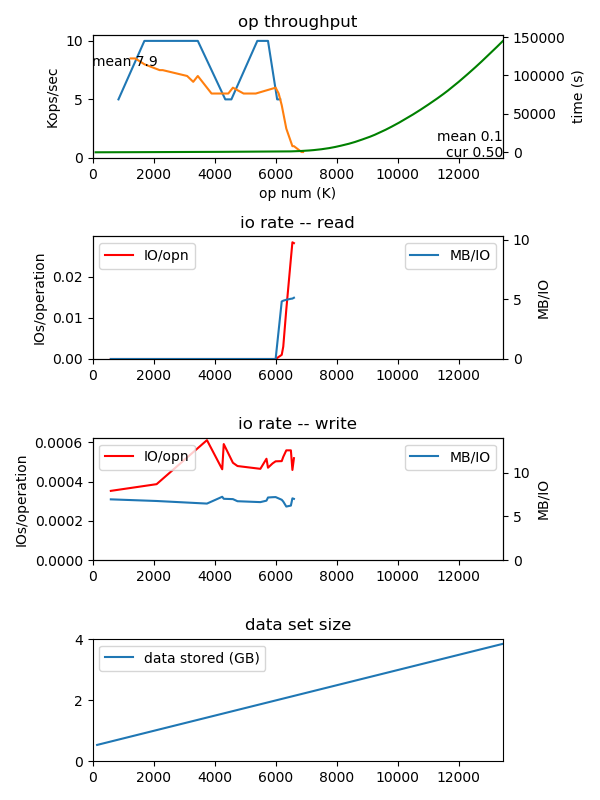
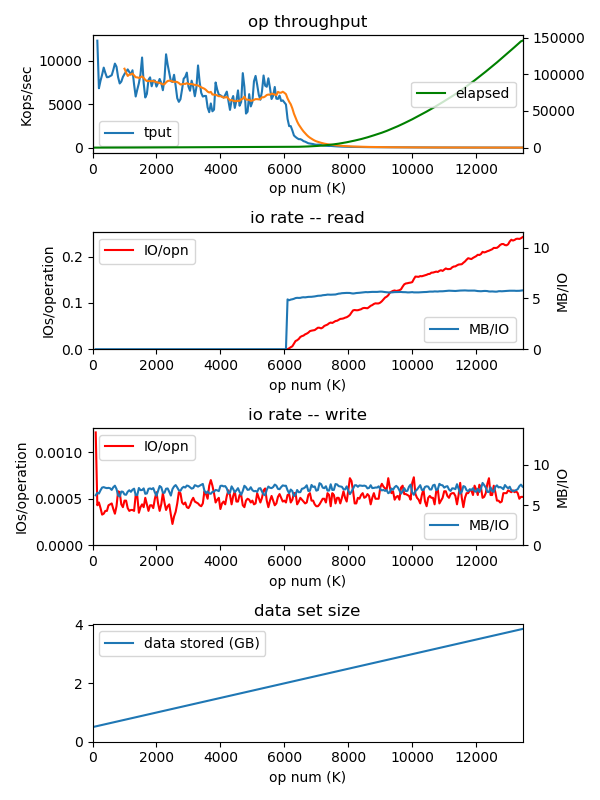
rejigger plot framework to make opn first-class independent variable

diff --git a/tools/plot/parser.py b/tools/plot/parser.py
@@ -32,31 +32,64 @@ def match_arow_line(token, line):
     label = line[len(token)+1+arow_width+1:]
     return (arow, label)
 
+class Trace:
+    def __init__(self, label, units):
+        self.label = label
+        self.units = units
+        self.data = {}
+        self._sortedKeys = None
+
+    def sortedKeys(self):
+        if not self._sortedKeys:
+            self._sortedKeys = list(self.data.keys())
+            self._sortedKeys.sort()
+        return self._sortedKeys
+
+    def __getitem__(self, op):
+        if op in self.data:
+            return self.data[op]
+        else:
+            idx = bisect.bisect(self.sortedKeys(), op)
+            if idx == 0:
+                return self.data[self.sortedKeys()[0]]
+            left_op = self.sortedKeys()[idx - 1]
+            right_op = self.sortedKeys()[idx]
+            frac = (op - left_op) / float(right_op - left_op)
+            left_v = self.data[left_op]
+            right_v = self.data[right_op]
+            return left_v + frac*(right_v - left_v)
+
+    def __setitem__(self, op, val):
+        self.data[op] = val
+
 class Experiment:
     def __init__(self, filename):
         self.filename = filename
 
-        self.os_map_total = {}
-        self.os_map_heap = {}
+        self.elapsed = Trace("elapsed", "s")
+
+        self.operation = Trace("operation", "op")
+        self.os_map_total = Trace("os_map_total", "B")
+        self.os_map_heap = Trace("os_map_heap", "B")
     #    allocations = {"small": {} , "large": {}, "total": {}}
         self.microscopes = {}
         self.first_op_completed_t = None
-        self.ops_completed = {}
+        self.ops_completed = Trace("ops_completed", "op")
         # these io counts are an older format that only worked in veribetrfs
         self.reads_started = {}
         self.reads_completed = {}
         self.writes_started = {}
         self.writes_completed = {}
         # these io counts are a newer format that works in rocks too
-        self.read_count = {}
-        self.read_bytes = {}
-        self.write_count = {}
-        self.write_bytes = {}
+        self.read_count = Trace("read_count", "iop")
+        self.read_bytes = Trace("read_bytes", "B")
+        self.write_count = Trace("write_count", "iop")
+        self.write_bytes = Trace("write_bytes", "B")
 
-        self.utime = {}
-        self.stime = {}
-        self.vsize = {}
-        self.rss = {}
+        self.utime = Trace("utime", "s")
+        self.stime = Trace("stime", "s")
+        self.vsize = Trace("vsize", "B")
+        self.rss = Trace("rss", "B")
 
         self.scopes = {}
         self.kvl_underlying = {}
@@ -64,72 +97,75 @@ class Experiment:
         self.accum = {}
 
         self.parse()
+        self.sortedOpns = list(self.operation.data.keys())
+        self.sortedOpns.sort()
+        self.op_max = max(self.sortedOpns)
     
     def parse(self):
         print("Parsing %s" % self.filename)
-        t = 0
+        cur_op = 0
         line_num = 0
         for line in open(self.filename, "r").readlines():
             line_num += 1
             line = line.strip()
             fields = line.split()
 
-            if line.startswith("elapsed"):
-                t = int(int(fields[1])/1000)  # ms to sec
-
+            # op count is the independent variable for all traces.
             if line.startswith("veribetrkv [op] sync") or line.startswith("rocksdb [op] sync"):
-                if self.first_op_completed_t == None:
-                    self.first_op_completed_t = t - 2
-                self.ops_completed[t] = int(fields[4])
-                #t += 1
+                cur_op = int(fields[4])
+                self.operation[cur_op] = cur_op
+
+            if line.startswith("elapsed"):
+                t = int(fields[1])/1000.0
+                self.elapsed[cur_op] = t
 
             if line.startswith("os-map-total"):
-                self.os_map_total[t] = int(fields[1])
-                self.os_map_heap[t] = int(fields[3])
+                self.os_map_total[cur_op] = int(fields[1])
+                self.os_map_heap[cur_op] = int(fields[3])
 
-            if line.startswith("iostats "):
-                self.reads_started[t] = int(fields[1])
-                self.reads_completed[t] = int(fields[3])
-                self.writes_started[t] = int(fields[5])
-                self.writes_completed[t] = int(fields[7])
+#            if line.startswith("iostats "):
+#                self.reads_started[cur_op] = int(fields[1])
+#                self.reads_completed[cur_op] = int(fields[3])
+#                self.writes_started[cur_op] = int(fields[5])
+#                self.writes_completed[cur_op] = int(fields[7])
 
             if line.startswith("ioaccounting "):
-                self.read_count[t] = int(fields[2])
-                self.read_bytes[t] = int(fields[4])
-                self.write_count[t] = int(fields[6])
-                self.write_bytes[t] = int(fields[8])
+                self.read_count[cur_op] = int(fields[2])
+                self.read_bytes[cur_op] = int(fields[4])
+                self.write_count[cur_op] = int(fields[6])
+                self.write_bytes[cur_op] = int(fields[8])
 
             if line.startswith("stat-accounting "):
-                self.utime[t] = int(fields[2])
-                self.stime[t] = int(fields[4])
-                self.vsize[t] = int(fields[6])
-                self.rss[t] = int(fields[8])
+                self.utime[cur_op] = int(fields[2])
+                self.stime[cur_op] = int(fields[4])
+                self.vsize[cur_op] = int(fields[6])
+                self.rss[cur_op] = int(fields[8])
 
-            mo = match_arow_line("ma-scope", line)
-            if mo:
-                arow,label = mo
-                if label not in self.scopes:
-                    self.scopes[label] = {}
-                self.scopes[label][t] = arow
+#            mo = match_arow_line("ma-scope", line)
+#            if mo:
+#                arow,label = mo
+#                if label not in self.scopes:
+#                    self.scopes[label] = {}
+#                self.scopes[label][t] = arow
+#
+#            mo = match_arow_line("ma-microscope", line)
+#            if mo:
+#                arow,label = mo
+#                label = label.split()[-1]   # suffix word. Sorry.
+#                if label not in self.microscopes:
+#                    self.microscopes[label] = {}
+#                self.microscopes[label][t] = arow
+#            
+#            if line.startswith("allocationreport stop underyling_count"):
+#                self.kvl_underlying_count[t] = int(fields[3])
+#                self.kvl_underlying[t] = int(fields[5])
 
-            mo = match_arow_line("ma-microscope", line)
-            if mo:
-                arow,label = mo
-                label = label.split()[-1]   # suffix word. Sorry.
-                if label not in self.microscopes:
-                    self.microscopes[label] = {}
-                self.microscopes[label][t] = arow
-            
-            if line.startswith("allocationreport stop underyling_count"):
-                self.kvl_underlying_count[t] = int(fields[3])
-                self.kvl_underlying[t] = int(fields[5])
 
-
-            mo = re.compile("cache: (\d+) (.*)-(bytes|count)").search(line)
-            if mo!=None:
-                value,type,unit = mo.groups()
-                accum_key = "%s-%s" % (type,unit)
-                if accum_key not in self.accum:
-                    self.accum[accum_key] = {}
-                self.accum[accum_key][t] = int(value)
+#            mo = re.compile("cache: (\d+) (.*)-(bytes|count)").search(line)
+#            if mo!=None:
+#                value,type,unit = mo.groups()
+#                accum_key = "%s-%s" % (type,unit)
+#                if accum_key not in self.accum:
+#                    self.accum[accum_key] = {}
+#                self.accum[accum_key][t] = int(value)
 

diff --git a/tools/plot/perf-timeseries.py b/tools/plot/perf-timeseries.py
@@ -9,83 +9,126 @@ from parser import Experiment
 from PlotHelper import *
 from TimeSeries import *
 
-def plot_perf_timeseries(e):
-    """e: Experiment"""
+def plot_perf_timeseries(exp):
+    """exp: Experiment"""
 
     plotHelper = PlotHelper(4)
-    timeSeries = TimeSeries(e, plotHelper)
+    #timeSeries = TimeSeries(exp, plotHelper)
 
-    try: timeSeries.plotThroughput(timeSeries.nextOpAxis())
-    except: pass
+    def plotVsKop(ax, lam):
+        # ax: which axis to apply the x-label to
+        # lam(opn): compute a y value for a given opn value
+        # returns xs,ys suitable to be passed to plt.plot
+        ax.set_xlabel("op num (K)")
+        ax.set_xlim(left = 0, right=exp.op_max/Kilo)
+        xs = []
+        ys = []
+        for opn in exp.sortedOpns:
+            try:
+                x = opn/Kilo
+                y = lam(opn)
+                if x!=None and y != None:
+                    xs.append(x)
+                    ys.append(y)
+            except KeyError: pass
+            except IndexError: pass
+        assert None not in xs
+        assert None not in ys
+        return xs,ys
 
-#    def plotIOCount(ax):
-#        ax.set_title("io count")
-#        line, = ax.plot(*timeSeries.makePlot(e.read_count, lambda t: e.read_count[t]))
-#        line.set_label("read")
-#        line, = ax.plot(*timeSeries.makePlot(e.write_count, lambda t: e.write_count[t]))
-#        line.set_label("write")
-#        ax.legend()
-#    try: plotIOCount(timeSeries.nextOpAxis())
-#    except: raise
+    def windowedRate(trace, window, scale=1.0, reciprocal=False):
+        def val(opn):
+            opnBefore = opn - window
+            if opnBefore < 0:
+                return None
+            vAfter = trace[opn]
+            vBefore = trace[opnBefore]
+            if vAfter == vBefore:
+                return None
+            rate = (vAfter - vBefore) / (opn - opnBefore)
+            if reciprocal:
+                rate = 1.0 / rate
+            return rate / scale
+        return val
+
+    def plotThroughput(ax):
+        ax.set_title("op throughput")
+        ax.set_ylabel("Kops/sec")
+        line, = ax.plot(*plotVsKop(ax, windowedRate(exp.elapsed, 100*Kilo, reciprocal=True)))
+        ax.plot(*plotVsKop(ax, windowedRate(exp.elapsed, 1000*Kilo, reciprocal=True)))
+        line.set_label("tput")
+        ax.legend(loc="lower left")
+
+        a2 = ax.twinx()
+        def elapsedTime(opn):
+            return exp.elapsed[opn]
+        line, = a2.plot(*plotVsKop(ax, elapsedTime), color="green")
+        line.set_label("elapsed")
+        a2.legend(loc="center right")
+
+    try:
+        plotThroughput(plotHelper.nextAxis())
+    except: raise
 
     def plotIORate(ax, iotype):
         ax.set_title("io rate -- %s" % iotype)
-        WINDOW = 50
 
-        count_source = e.read_count if iotype=="read" else e.write_count
-        byte_source = e.read_bytes if iotype=="read" else e.write_bytes
+        count_source = exp.read_count if iotype=="read" else exp.write_count
+        byte_source = exp.read_bytes if iotype=="read" else exp.write_bytes
 
+        line, = ax.plot(*plotVsKop(ax, windowedRate(count_source, 100*Kilo)),
+                    color="red")
+        line.set_label("IO/opn")
 
-        lam = lambda t: count_source[t]
-        #print(count_source)
-        timeSeries.smooth(ax, window=WINDOW, source=count_source, fieldfunc=lam, divideBy=OpCount, label="IO/opn", color="red")
         ax.set_ylim(bottom=0)
         ax.set_ylabel("IOs/operation")
         ax.legend(loc="upper left")
 
-        tx = ax.twinx()
-        bytes_source = e.read_bytes if iotype=="read" else e.write_bytes
-        lam = lambda t: bytes_source[t]/count_source[t] if count_source[t]>0 else 0
-
+        a2 = ax.twinx()
         # Can't use smooth() because we need to examine both sides of the
         # window before dividing. That, and we don't want
         # bytes-per-IO-per-op-completed.
-        def bytesPerIO(t):
-            bytes = byte_source[t] - byte_source[t-WINDOW]
-            count = count_source[t] - count_source[t-WINDOW]
+        def bytesPerIO(opn):
+            window = 100*Kilo
+            opnBefore = opn - window
+            if opnBefore < 0:
+                return None
+            bytes = byte_source[opn] - byte_source[opnBefore]
+            count = count_source[opn] - count_source[opnBefore]
             result = bytes/count/MB if count>0 else 0
             return result
-        xs,ys = timeSeries.makePlot(bytes_source, bytesPerIO)
-        line, = tx.plot(xs, ys)
+
+        xs,ys = plotVsKop(ax, bytesPerIO)
+        line, = a2.plot(xs, ys)
         line.set_label("MB/IO")
         cur =  ys[-1] if len(ys)>0 else 0
-        tx.set_ylabel("MB/IO")
-        tx.legend(loc="upper right")
-        tx.set_ylim(bottom=0, top=cur*2)
+        a2.set_ylabel("MB/IO")
+        a2.legend(loc="lower right")
+        a2.set_ylim(bottom=0, top=cur*2)
     try:
-        plotIORate(timeSeries.nextOpAxis(), "read")
-        plotIORate(timeSeries.nextOpAxis(), "write")
+        plotIORate(plotHelper.nextAxis(), "read")
+        plotIORate(plotHelper.nextAxis(), "write")
     except: raise
 
     def plotCacheEstimates(ax):
         ax.set_title("data set size")
-        def writeCountEstimate(t):
+        def writeCountEstimate(opn):
             #workload a
             assume_initialRecords = 1e6
             assume_writeFraction = 0.5
-            return timeSeries.timeToOp(t)*assume_writeFraction + assume_initialRecords
-        def dataSizeEstimate(t):
+            return opn*assume_writeFraction + assume_initialRecords
+        def dataSizeEstimate(opn):
             assume_keySize = 24
             assume_valueSize = 512
-            return writeCountEstimate(t) * (assume_keySize + assume_valueSize) / GB
-        line, = ax.plot(*timeSeries.makePlot(e.ops_completed, dataSizeEstimate))
+            return writeCountEstimate(opn) * (assume_keySize + assume_valueSize) / GB
+        line, = ax.plot(*plotVsKop(ax, dataSizeEstimate))
         line.set_label("data stored (GB)")
         ax.set_ylim(bottom=0)
         ax.legend()
     try:
-        plotCacheEstimates(timeSeries.nextOpAxis())
-    except: raise
+        plotCacheEstimates(plotHelper.nextAxis())
+    except: pass
 
-    plotHelper.save("%s-perf.png" % e.filename)
+    plotHelper.save("%s-perf.png" % exp.filename)
     
 plot_perf_timeseries(Experiment(sys.argv[1]))

diff --git a/tools/plot/TimeSeries.py b/tools/plot/TimeSeries.py
@@ -8,13 +8,13 @@ class TimeSeries:
         self.exp = exp
         self.plotHelper = plotHelper
 
-        self.opValues = list(exp.ops_completed.values())
-        self.opValues.sort()
-        self.opTimes = list(exp.ops_completed.keys())
-        self.opTimes.sort()
+#        self.opValues = list(exp.ops_completed.values())
+#        self.opValues.sort()
+#        self.opTimes = list(exp.ops_completed.keys())
+#        self.opTimes.sort()
 
-        self.t_end = max(self.exp.ops_completed.keys())
-        self.kop_end = self.timeToKiloOp(self.t_end)
+#        self.t_end = max(self.exp.ops_completed.keys())
+#        self.kop_end = self.timeToKiloOp(self.t_end)
 
     def nextOpAxis(self):
         ax = self.plotHelper.nextAxis()

diff --git a/ycsb/YcsbMain.cpp b/ycsb/YcsbMain.cpp
@@ -268,7 +268,7 @@ void ycsbRun(
 
         if (elapsed_ms >= next_display_ms) {
             malloc_accounting_display("periodic");
-            printf("elapsed %d next %d int %d\n",
+            printf("elapsed run %d next %d int %d\n",
                 elapsed_ms, next_display_ms, display_interval_ms);
             next_display_ms += display_interval_ms;
         }
